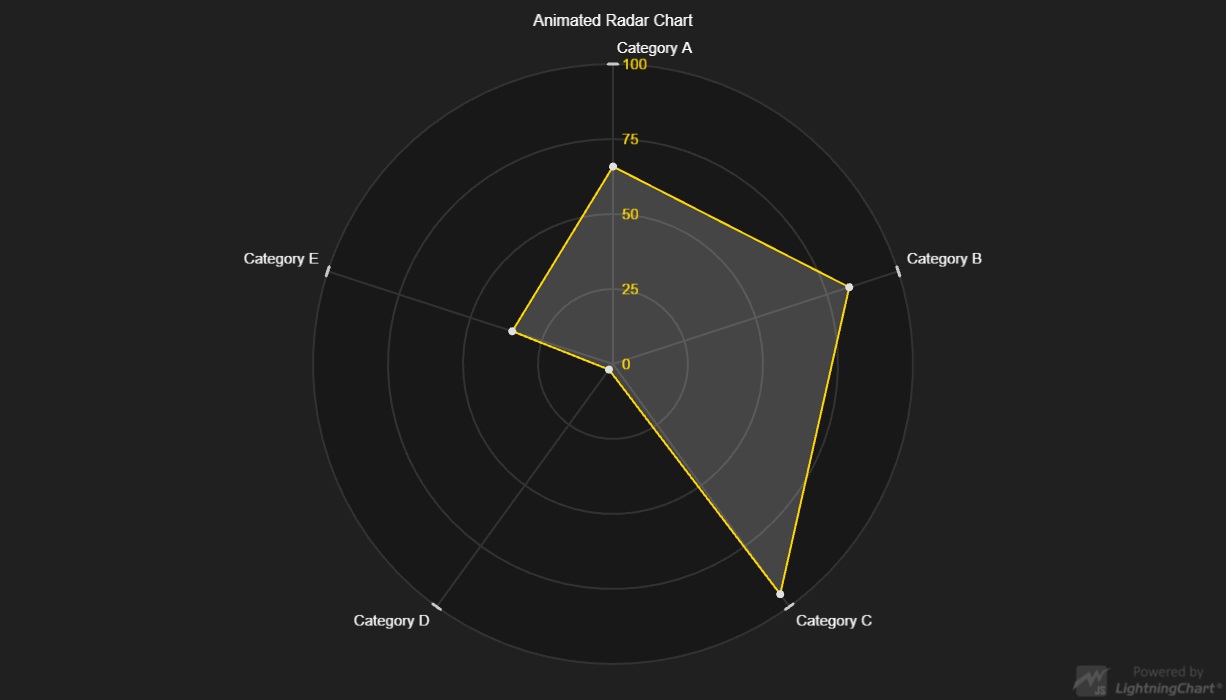
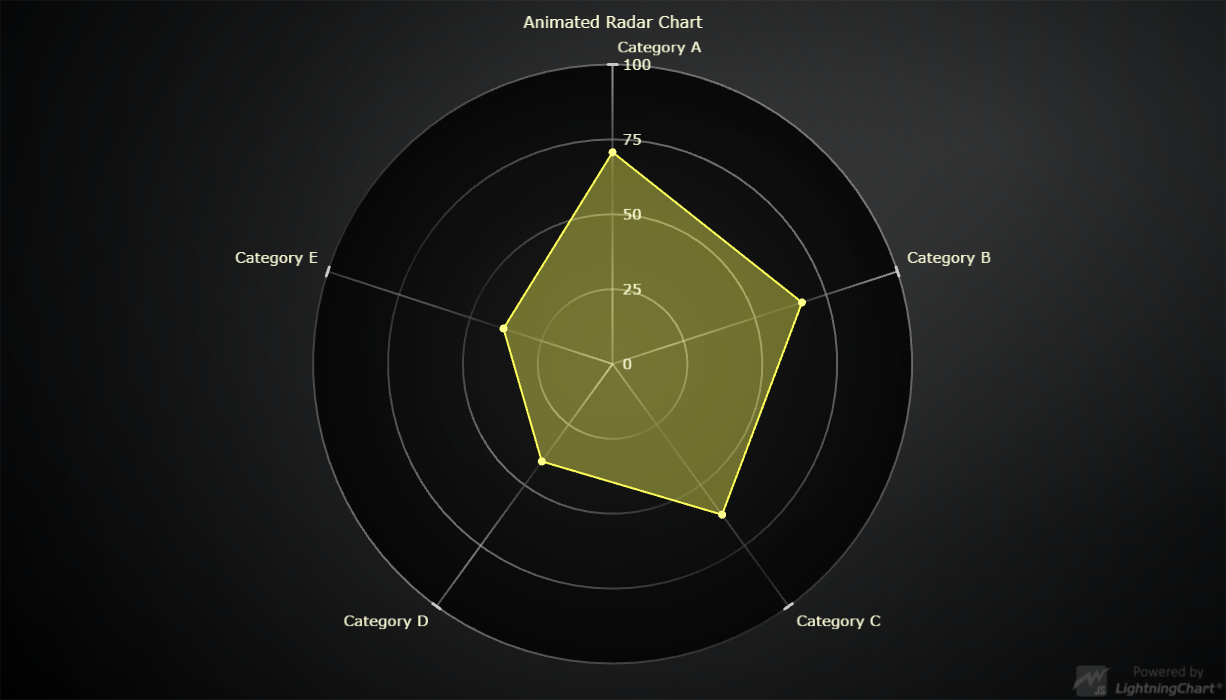
Update LCJS version

diff --git a/webpack.config.js b/webpack.config.js
@@ -69,7 +69,8 @@ module.exports = {
         }),
         new CopyWebpackPlugin({
             patterns: [
-                { from: './assets/**/*', to: './examples/assets', flatten: true, noErrorOnMissing: true }
+                { from: './assets/**/*', to: './examples/assets', flatten: true, noErrorOnMissing: true },
+                { from: './node_modules/@arction/lcjs/dist/resources', to: 'resources', noErrorOnMissing: true },
             ]
         })
     ]

diff --git a/src/index.js b/src/index.js
@@ -13,7 +13,7 @@ const {
 
 // Create a circular spider chart and add a series to it.
 const chart = lightningChart().Spider({
-    // theme: Themes.dark 
+    // theme: Themes.darkGold 
 })
     .setTitle('Animated Radar Chart')
     .setAxisInterval(100)

diff --git a/README.md b/README.md
@@ -65,7 +65,7 @@ Direct developer email support can be purchased through a [Support Plan][4] or b
 © Arction Ltd 2009-2020. All rights reserved.
 
 
-[Spider chart]: https://www.arction.com/lightningchart-js-api-documentation/v3.0.1/classes/spiderchart.html
-[Spider web mode]: https://www.arction.com/lightningchart-js-api-documentation/v3.0.1/enums/spiderwebmode.html
-[Spider series]: https://www.arction.com/lightningchart-js-api-documentation/v3.0.1/classes/spiderseries.html
+[Spider chart]: https://www.arction.com/lightningchart-js-api-documentation/v3.1.0/classes/spiderchart.html
+[Spider web mode]: https://www.arction.com/lightningchart-js-api-documentation/v3.1.0/enums/spiderwebmode.html
+[Spider series]: https://www.arction.com/lightningchart-js-api-documentation/v3.1.0/classes/spiderseries.html
 
